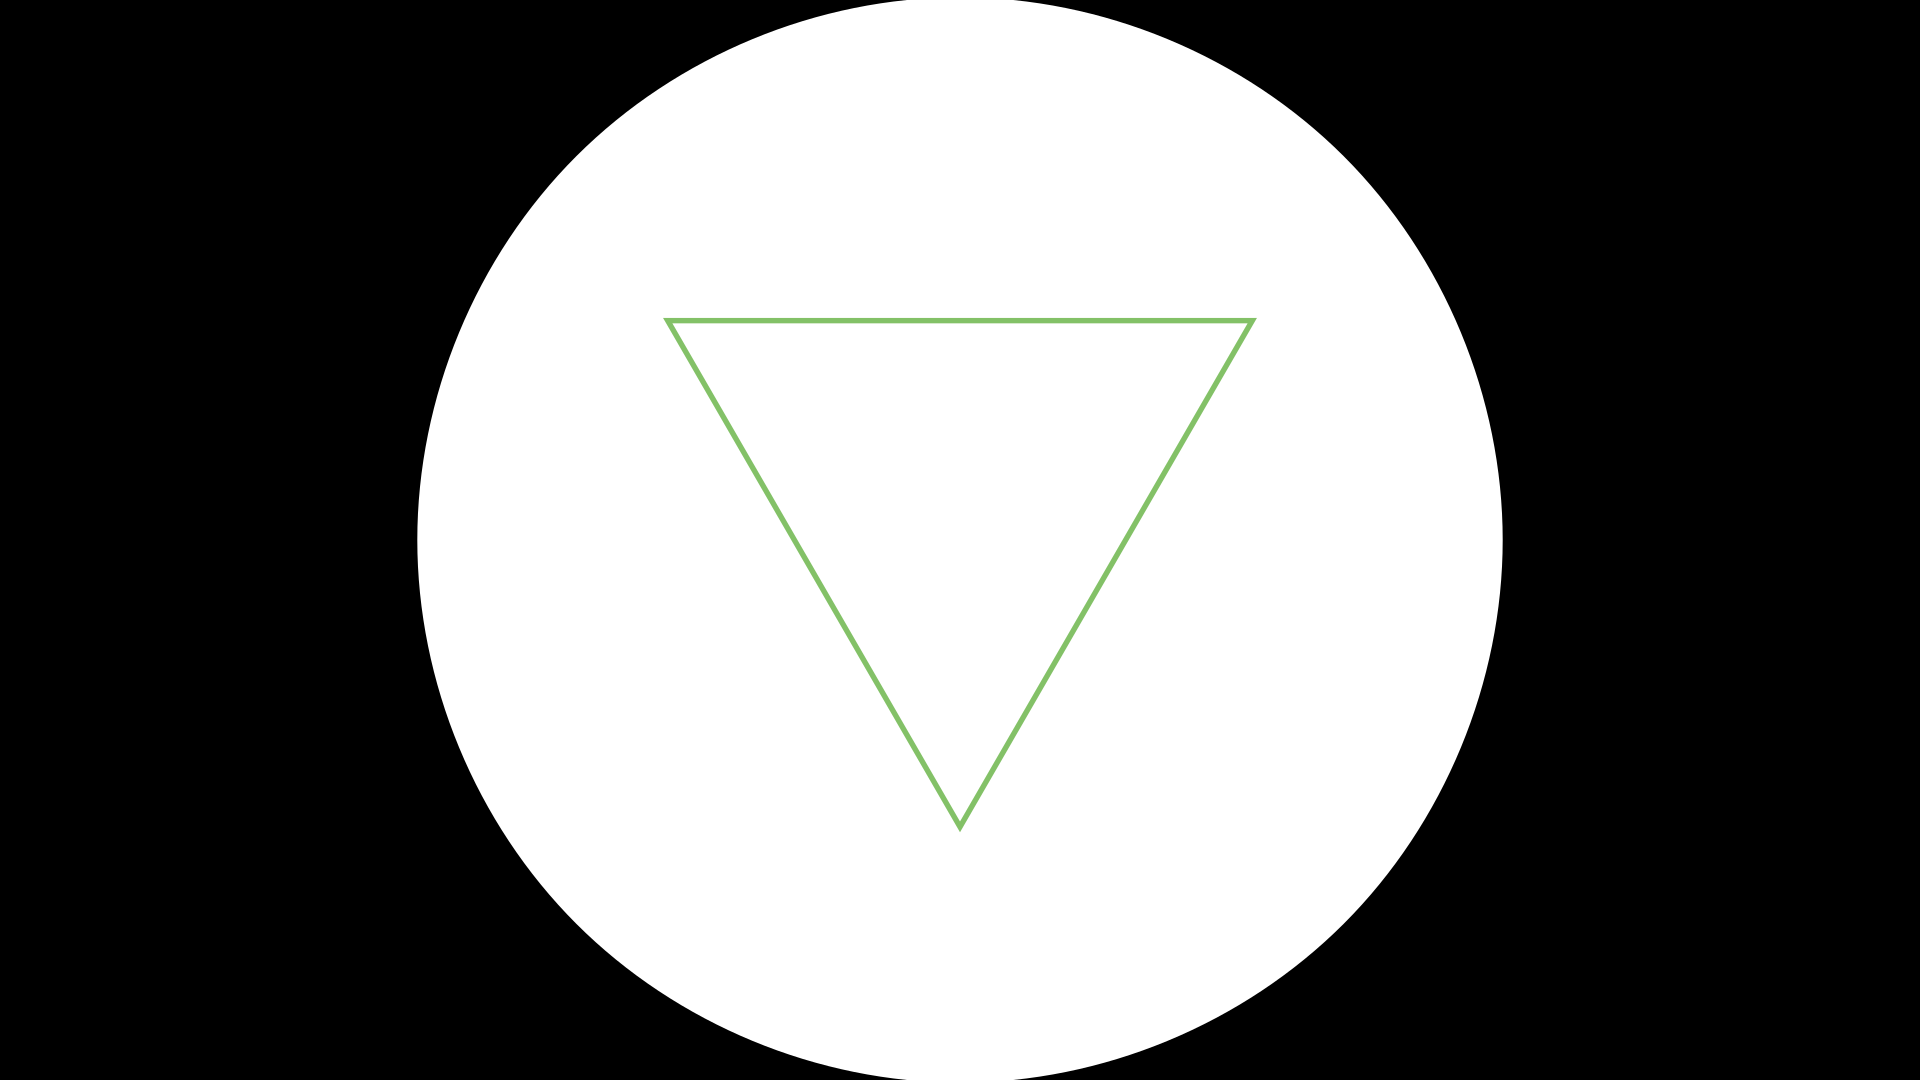
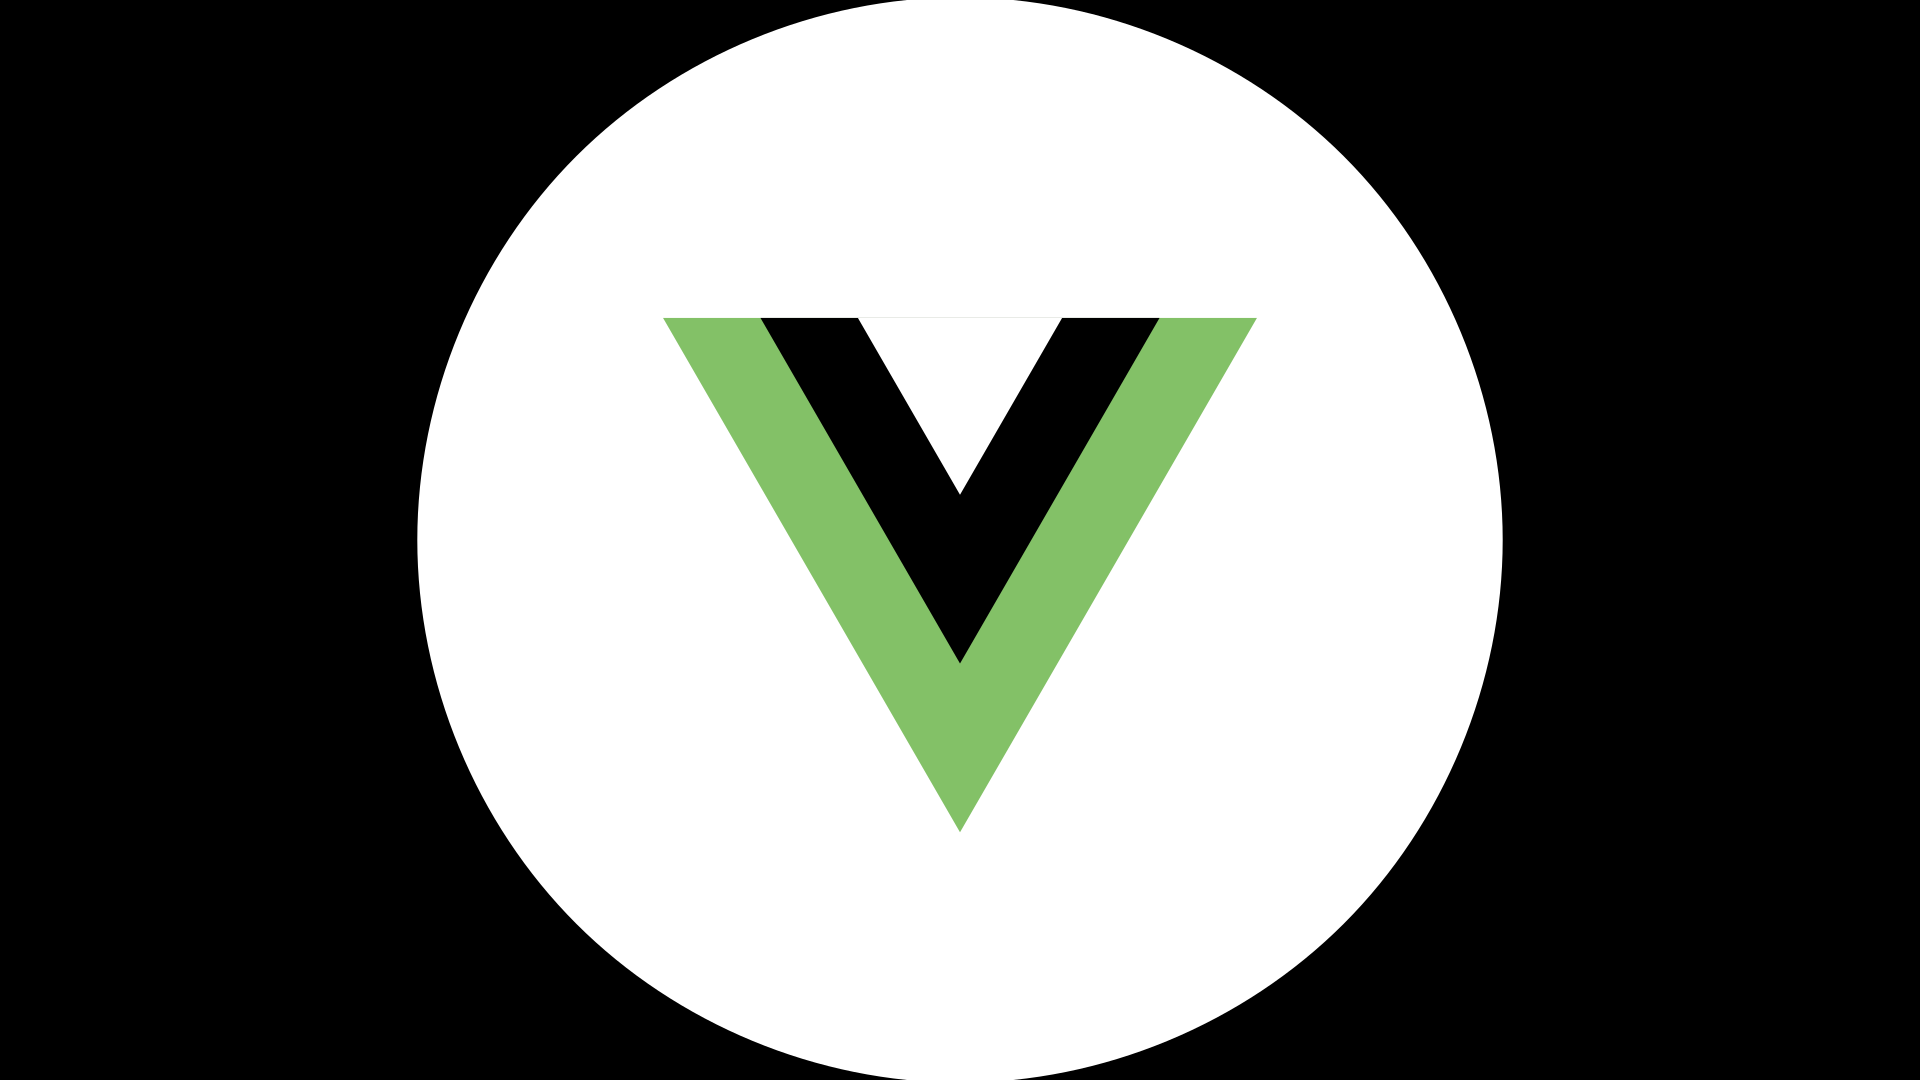
fixed fill on triangles Ex_04 END

Changed region(s): [[0.3438, 0.275, 0.6562, 0.7639]]

diff --git a/Exercises/Ex_04.py b/Exercises/Ex_04.py
@@ -6,13 +6,14 @@ class Ex_04(Scene):
         fill = {"fill_opacity": 1}
         circle = Circle(color=WHITE, **fill).scale(4)
 
-        b_triangle = Triangle(color = GREEN).scale(2.5)
+        b_triangle = Triangle(color = GREEN, **fill).scale(2.5)
         b_triangle.rotate(PI, about_point=ORIGIN)
 
         m_triangle = b_triangle.copy()
         m_triangle.scale(2/3, about_edge=UP).set_color(BLACK)
 
         s_triangle = b_triangle.copy()
+        s_triangle.scale(1/3, about_edge=UP).set_color(WHITE)
 
 
 
